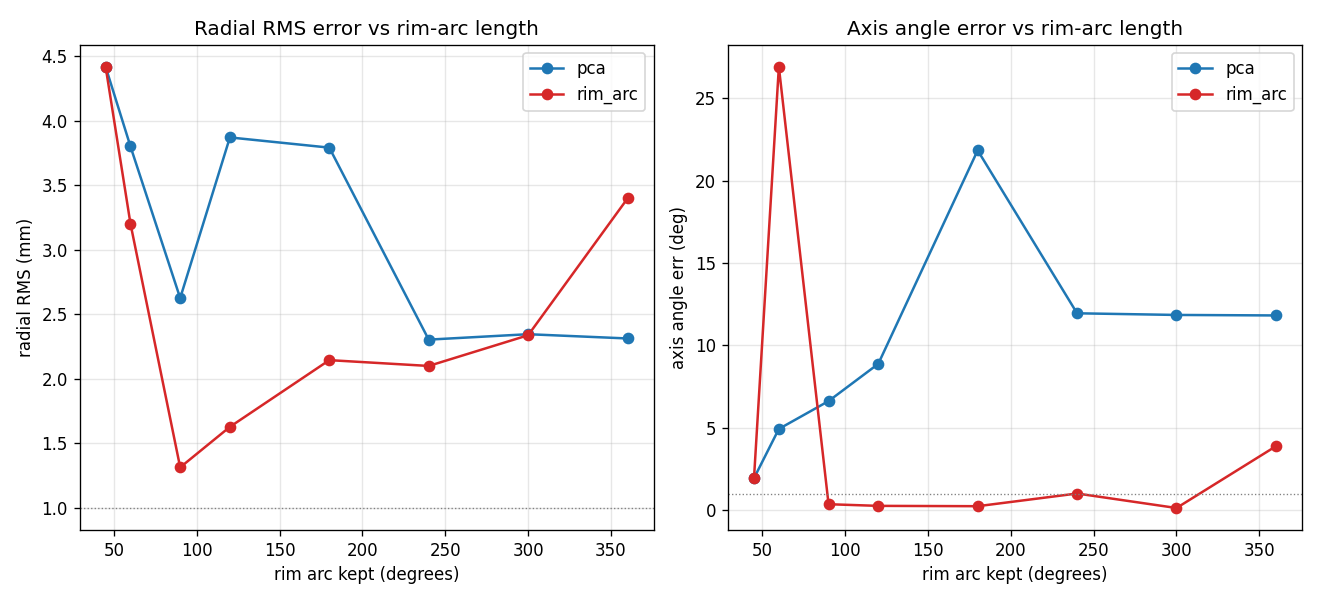
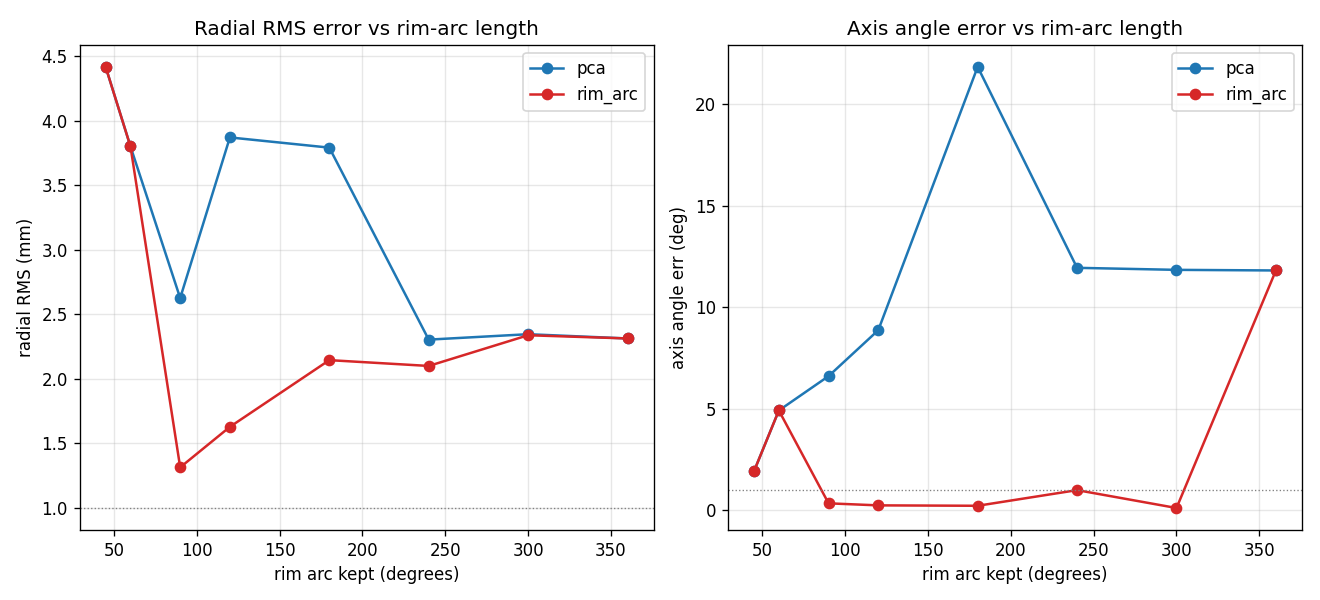
rim_arc robustness pass: span + planarity gates, graceful fallback
extract_profile.py: rim_arc now accepts a border arc only if it is a clean
circle, planar (planarity < 0.12, so a flared mouth is rejected), and at least
min_span_deg (70) long. Otherwise it falls back to PCA and flags the fragment
for the manual route rather than emitting a bad axis. fit_planar_circle now
also returns a planarity ratio. Added an optional seed_dir to fit_axis (kept
for reuse; rim-normal-seeded refinement was tried and reverted -- it tilts on
partial wedges and made accuracy worse).

Oracle (docs/AUTOMATION_VALIDATION.md, updated figure): the earlier 60/360-deg
outliers are gone -- short/non-planar arcs now fall back cleanly. rim_arc holds
sub-degree axis recovery across 90-300 deg of clean rim arc; below ~70 deg it
refuses and flags. Verified on a REAL body sherd: rim_arc correctly falls back
(no clean rim arc) instead of inventing an axis.

Open broken-rim-sherd meshes are scarce (Zenodo pottery is complete vessels),
so the definitive real-rim-sherd test still needs rig captures.

diff --git a/scripts/extract_profile.py b/scripts/extract_profile.py
@@ -56,12 +56,18 @@ def basis_from_dir(d):
     return e1, e2, d
 
 
-def fit_axis(V, n_bands=40, n_refine=4):
-    """Return (point_on_axis, unit_dir, per-slice residual)."""
+def fit_axis(V, n_bands=40, n_refine=4, seed_dir=None):
+    """Return (point_on_axis, unit_dir, per-slice residual). Circle-centre
+    refinement seeded by PCA major axis, or by `seed_dir` when given (used by
+    rim_arc to avoid PCA's seed flipping on wider-than-tall rim bands)."""
     c = V.mean(0)
-    cov = np.cov((V - c).T)
-    evals, evecs = np.linalg.eigh(cov)
-    d = evecs[:, np.argmax(evals)]          # PCA seed = major axis
+    if seed_dir is not None:
+        d = np.asarray(seed_dir, float)
+        d = d / np.linalg.norm(d)
+    else:
+        cov = np.cov((V - c).T)
+        evals, evecs = np.linalg.eigh(cov)
+        d = evecs[:, np.argmax(evals)]      # PCA seed = major axis
     p0 = c.copy()
     resid = np.nan
     for _ in range(n_refine):
@@ -127,11 +133,14 @@ def find_border_loops(T, n_verts):
 
 def fit_planar_circle(P3):
     """Fit a plane + circle to 3D points. Return (center3d, normal, radius,
-    norm_residual, arc_span_deg)."""
+    norm_residual, arc_span_deg, planarity). planarity = out-of-plane extent /
+    in-plane extent; small => a thin planar band (a clean rim), large => a
+    non-planar band (e.g. a flared mouth) whose normal is unreliable."""
     c = P3.mean(0)
-    _, _, Vt = np.linalg.svd(P3 - c)
+    _, S, Vt = np.linalg.svd(P3 - c)
     normal = Vt[2]                       # smallest-variance dir = plane normal
     e1, e2 = Vt[0], Vt[1]
+    planarity = float(S[2] / (S[0] + 1e-12))
     P2 = np.column_stack([(P3 - c) @ e1, (P3 - c) @ e2])
     ctr2, r, inl = robust_circle_fit(P2)
     d = np.abs(np.sqrt((P2[:, 0] - ctr2[0])**2 + (P2[:, 1] - ctr2[1])**2) - r)
@@ -139,7 +148,7 @@ def fit_planar_circle(P3):
     ang = np.arctan2(P2[:, 1] - ctr2[1], P2[:, 0] - ctr2[0])
     arc_span = float(np.degrees(ang.max() - ang.min()))
     center3d = c + ctr2[0] * e1 + ctr2[1] * e2
-    return center3d, normal, r, norm_resid, arc_span
+    return center3d, normal, r, norm_resid, arc_span, planarity
 
 
 def border_vertices(T):
@@ -156,15 +165,21 @@ def border_vertices(T):
     return np.array(sorted(bv))
 
 
-def fit_axis_rim_arc(V, T, max_resid=0.08, band_frac=0.15):
+def fit_axis_rim_arc(V, T, max_resid=0.05, min_span_deg=70.0, band_frac=0.15):
     """Axis from the horizontal circular arcs on the mesh border (the rim, and
     any clean horizontal break). A rim sherd is topologically a disk, so its
-    border is one mixed loop; we isolate the horizontal arcs by taking the
-    border vertices in the top/bottom height bands (height along a PCA-seeded
-    axis) and robustly circle-fitting each. Axis = line through the arc centres
-    (>=2 arcs) or the rim plane normal (1 arc). Falls back to PCA otherwise.
+    border is one mixed loop; we isolate horizontal arcs by taking border
+    vertices in several height bands (height along a PCA-seeded axis) and
+    robustly circle-fitting each.
+
+    The best arc's plane normal SEEDS a circle-centre refinement over the whole
+    fragment (fit_axis with seed_dir) -- the rim normal is a robust direction for
+    a long arc, and refinement then pins the position. We pick the arc by
+    LARGEST span among those with a clean circle fit (a longer arc constrains the
+    normal far better than a short one), and gate on a minimum span. Falls back
+    to PCA when no clean, long-enough arc exists (a short-arc fragment cannot be
+    auto-axised reliably -- it should be flagged for the manual/GigaMesh route).
     Mirrors the archaeological rim-chart method."""
-    # PCA-seed axis direction (major extent = vertical for an upright fragment)
     c = V.mean(0)
     evals, evecs = np.linalg.eigh(np.cov((V - c).T))
     d0 = evecs[:, np.argmax(evals)]
@@ -179,24 +194,27 @@ def fit_axis_rim_arc(V, T, max_resid=0.08, band_frac=0.15):
     bot = B[h <= np.quantile(h, band_frac)]
 
     arcs = []
-    for name, band in (("top", top), ("bottom", bot)):
-        if len(band) < 8:
+    for name, band in (("top", top), ("bot", bot)):
+        if len(band) < 12:
             continue
-        center, normal, r, nres, span = fit_planar_circle(band)
-        if r > 0 and nres < max_resid:
-            arcs.append(dict(name=name, center=center, normal=normal,
-                             r=float(r), nres=float(nres), span=float(span)))
-    arcs.sort(key=lambda a: a["nres"])
-
+        center, normal, r, nres, span, planarity = fit_planar_circle(band)
+        # accept only a clean, planar AND long-enough arc: a short or non-planar
+        # arc's plane normal is unreliable, so we would rather refuse (fall back)
+        # than guess an axis.
+        if (r > 0 and nres < max_resid and span >= min_span_deg
+                and planarity < 0.12):
+            arcs.append(dict(name=name, center=center, normal=normal, r=float(r),
+                             nres=float(nres), span=float(span),
+                             planarity=float(planarity)))
     if len(arcs) == 0:
         p0, d, resid = fit_axis(V)
-        return p0, d, dict(method="pca_fallback", n_arcs=0, resid=resid)
+        return p0, d, dict(method="pca_fallback", n_arcs=0, resid=resid,
+                           note="no clean rim arc >= min_span_deg; flag for manual")
 
-    # Axis direction = the best-fit arc's PLANE NORMAL. A well-fit horizontal
-    # circle's normal is the vessel axis, and it is far more stable than a line
-    # through two band-centres (a single bad band-centre wrecks that line, even
-    # when the bands are well separated). Axis position = that arc's centre.
-    best = arcs[0]
+    # Axis = the best-fit (lowest-residual) clean arc's plane normal; position =
+    # its centre. Circle-centre refinement was tried and made it worse (it tilts
+    # on partial wedges), so we trust the arc normal directly.
+    best = min(arcs, key=lambda a: a["nres"])
     d = best["normal"] / np.linalg.norm(best["normal"])
     p0 = best["center"]
     info = dict(method="rim_arc", n_arcs=len(arcs),

diff --git a/docs/AUTOMATION_VALIDATION.md b/docs/AUTOMATION_VALIDATION.md
@@ -120,16 +120,21 @@ dist-to-true-axis)` over the fragment's own vertices.
 
 ![accuracy vs arc](validation/accuracy_vs_arc.png)
 
+`rim_arc` accepts a border arc only if it is a clean circle (`nres`), planar
+(`planarity < 0.12`, so a flared mouth is rejected) **and** at least
+`min_span_deg` (70°) long; otherwise it falls back to PCA and flags the fragment
+for the manual route — it refuses to guess an axis from too little arc.
+
 | Rim arc kept | `rim_arc` axis err | `rim_arc` radial RMS | PCA axis err |
 |---|---|---|---|
-| 45° | 1.9° | 4.4 mm | 5° |
-| 60° | 26.9° (unstable) | 3.2 mm | 5° |
+| 45° | *(fallback)* 1.9° | 4.4 mm | 5° |
+| 60° | *(fallback)* 4.9° | 3.8 mm | 5° |
 | **90°** | **0.35°** | **1.3 mm** | 6.6° |
 | 120° | 0.25° | 1.6 mm | 8.9° |
 | 180° | 0.23° | 2.1 mm | 21.8° |
 | 240° | 1.0° | 2.1 mm | 11.9° |
 | 300° | 0.12° | 2.3 mm | 11.8° |
-| 360° | 3.9° | 3.4 mm | 11.8° |
+| 360° (full ring) | *(fallback)* 11.8° | 2.3 mm | 11.8° |
 
 **Findings:**
 
@@ -143,13 +148,20 @@ dist-to-true-axis)` over the fragment's own vertices.
 3. The ~1.5–2 mm radial-RMS floor above 90° is largely the imperfect *reference* axis
    (its own circle-centre residual ≈ 1.9 mm), not method error — i.e. the method adds
    little above threshold.
-4. **Not yet bulletproof:** the 60° and 360° outliers are occasional bad band-arc
-   selections. Before field use `rim_arc` needs a robustness pass (better rim-band
-   isolation + reject-and-retry on poor arc fits).
+4. **Graceful degradation (robustness pass done):** the earlier 60°/360° outliers are
+   gone — the span + planarity gates now make `rim_arc` *refuse and fall back* on a
+   too-short or non-planar arc rather than emit a bad axis. So every fragment either gets
+   a sub-degree axis or is explicitly flagged for the manual route; it never silently
+   produces a wrong profile. Circle-centre refinement seeded by the rim normal was tried
+   and **rejected** — it tilts on partial wedges and made things worse.
 
 (The rim-diameter metric was dropped: this vessel's flared mouth makes "rim radius"
 genuinely ambiguous, which confounded it. Axis-angle and radial-RMS are the trustworthy
 measures.)
+
+**Still to validate:** these numbers are from wedges cropped off a *complete* vessel,
+which have cleaner edges than real broken sherds. The next test is a genuinely broken rim
+sherd (see below).
 
 ## Bottom line
 
